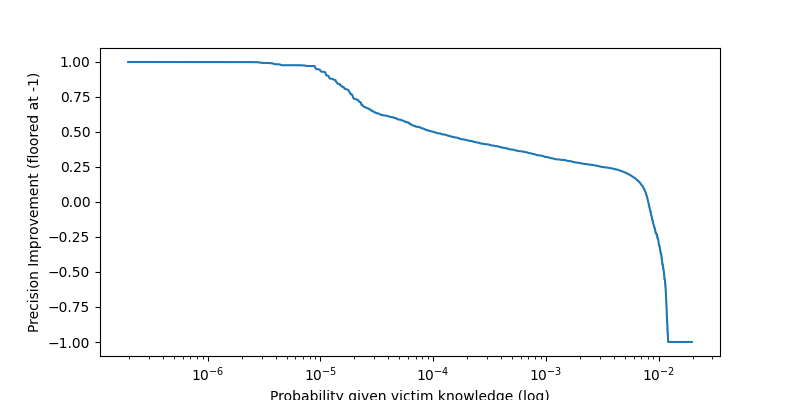
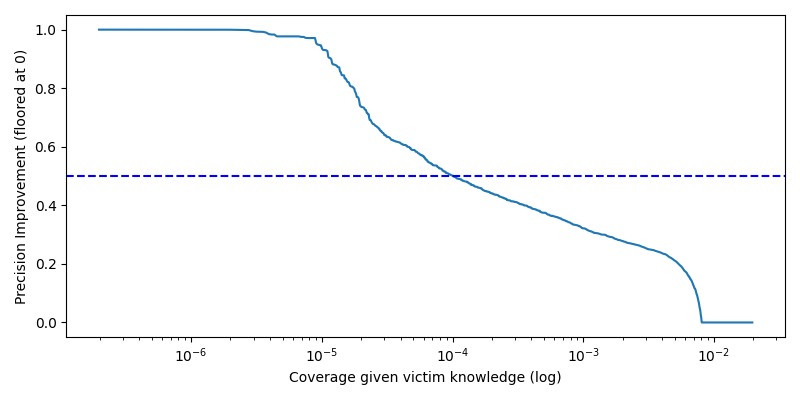
update attack

diff --git a/suppress_threshold_attack.py b/suppress_threshold_attack.py
@@ -53,15 +53,16 @@ def do_model():
     # Retain a copy of X_test which includes all columns
     X_test_all = X_test.copy()
 
+    unneeded_columns = ['cap', 'tp']
     # Standardize the features
     scaler = StandardScaler()
     # Scale the data
-    columns = X_train.drop(columns=['cap', 'tp']).columns
-    X_train_scaled = scaler.fit_transform(X_train.drop(columns=['cap', 'tp']))
+    columns = X_train.drop(columns=unneeded_columns).columns
+    X_train_scaled = scaler.fit_transform(X_train.drop(columns=unneeded_columns))
     X_train = pd.DataFrame(X_train_scaled, columns=columns)
 
-    columns = X_test.drop(columns=['cap', 'tp']).columns
-    X_test_scaled = scaler.transform(X_test.drop(columns=['cap', 'tp']))
+    columns = X_test.drop(columns=unneeded_columns).columns
+    X_test_scaled = scaler.transform(X_test.drop(columns=unneeded_columns))
     X_test = pd.DataFrame(X_test_scaled, columns=columns)
     print(f"X_train type is {type(X_train)}, y_train type is {type(y_train)}")
 
@@ -148,7 +149,8 @@ def do_plots():
     plt.figure(figsize=(8, 4))
     plt.plot(X_test_all_sorted['probability'], X_test_all_sorted['pi_fl'])
     plt.xscale('log')
-    plt.axhline(y=0.5, color='b', linestyle='--')
+    plt.hlines(0.5, 0.001, 1, colors='black', linestyles='--', linewidth=0.5)
+    plt.vlines(0.001, 0.5, 1.0, colors='black', linestyles='--', linewidth=0.5)
     plt.xlabel('Coverage given attack conditions (log)')
     plt.ylabel(f'Precision Improvement (floored at {pi_floor})')
     plt.tight_layout()
@@ -160,7 +162,8 @@ def do_plots():
     plt.figure(figsize=(8, 4))
     plt.plot(X_test_all_sorted['probability'], X_test_all_sorted['pi_fl'])
     plt.xscale('log')
-    plt.axhline(y=0.5, color='b', linestyle='--')
+    plt.hlines(0.5, 0.001, 1, colors='black', linestyles='--', linewidth=0.5)
+    plt.vlines(0.001, 0.5, 1.0, colors='black', linestyles='--', linewidth=0.5)
     plt.xlabel('Coverage given victim knowledge (log)')
     plt.ylabel(f'Precision Improvement (floored at {pi_floor})')
     plt.tight_layout()
@@ -185,11 +188,7 @@ def gather(instances_path):
                     continue
                 try:
                     res = json.load(f)
-                    # cap was computed as (tp+fp)/num_possible_combs, 
-                    # But it num_possible_combs didn't take into account
-                    # each possible target value. So we need to divide cap by the
-                    # total number of columns - number of known columns
-                    cap = res['summary']['coverage_all_possible']
+                    cap = res['summary']['coverage_all_combs_targets']
                     num_rows = res['summary']['num_rows']
                     for entry in res['attack_results']:
                         entry['cap'] = cap
@@ -296,6 +295,7 @@ def get_attack_info(df_syn, comb, known_val_comb, target_col, target_val):
 def run_attacks(tm, file_path, job):
     max_attack_instances = 10
     attack_summary = {'summary': {'num_samples':[0,0,0,0,0],
+                              'num_possible_combs_targets': 0,
                               'num_possible_combs': 0,
                               'num_rows': tm.df_orig.shape[0],
                               'num_cols': tm.df_orig.shape[1],
@@ -331,8 +331,8 @@ def run_attacks(tm, file_path, job):
         num_known_columns = len(comb)
         # Group the DataFrame by the columns in comb and count the number of rows for each group
         grouped = tm.df_orig.groupby(comb).size()
-        # This is the total number of 
-        attack_summary['summary']['num_possible_combs'] += grouped.shape[0] * (tm.df_orig.shape[1] - num_known_columns)
+        attack_summary['summary']['num_possible_combs'] += grouped.shape[0]
+        attack_summary['summary']['num_possible_combs_targets'] += grouped.shape[0] * (tm.df_orig.shape[1] - num_known_columns)
 
         # Filter the groups to only include those with exactly 3 rows
         known_val_combs = grouped[grouped == 3].index.tolist()
@@ -434,8 +434,9 @@ def summarize_and_write(attack_summary, file_path, sum_base_probs):
     attack_summary['summary']['num_attacks'] = num_attacks
     attack_summary['summary']['precision'] = prec
     attack_summary['summary']['precision_improvement'] = pi
-    attack_summary['summary']['coverage_known'] = (tp + fp) / num_attacks if num_attacks != 0 else 0
-    attack_summary['summary']['coverage_all_possible'] = (tp + fp) / attack_summary['summary']['num_possible_combs'] if attack_summary['summary']['num_possible_combs'] != 0 else 0
+    attack_summary['summary']['coverage_known_naive'] = (tp + fp) / num_attacks if num_attacks != 0 else 0
+    attack_summary['summary']['coverage_all_combs'] = (tp + fp) / attack_summary['summary']['num_possible_combs'] if attack_summary['summary']['num_possible_combs'] != 0 else 0
+    attack_summary['summary']['coverage_all_combs_targets'] = (tp + fp) / attack_summary['summary']['num_possible_combs_targets'] if attack_summary['summary']['num_possible_combs_targets'] != 0 else 0
 
     # Write attack_summary to file_path
     with open(file_path, 'w') as f:
